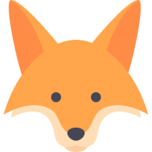
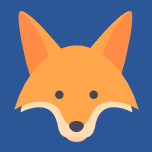
Updated to actual latest version that was on webhost

diff --git a/icons/html_code.html b/icons/html_code.html
@@ -1,4 +1,3 @@
-<link rel="stylesheet" href="/styles/style.css" /> <link rel="apple-touch-icon" sizes="180x180" href="/icons/apple-touch-icon.png?v=7koxj44oew" />
 <link rel="apple-touch-icon" sizes="180x180" href="/icons/apple-touch-icon.png?v=9BP4YaB3x3">
 <link rel="icon" type="image/png" sizes="32x32" href="/icons/favicon-32x32.png?v=9BP4YaB3x3">
 <link rel="icon" type="image/png" sizes="194x194" href="/icons/favicon-194x194.png?v=9BP4YaB3x3">

diff --git a/index.php b/index.php
@@ -82,7 +82,8 @@ body, html {
 <!-- First Parallax Image with Logo Text -->
 <div class="bgimg-1 w3-display-container w3-opacity-min" id="home">
   <div class="w3-display-middle" style="white-space:nowrap;">
-    <span class="w3-center w3-padding-large w3-black w3-xlarge w3-wide w3-animate-opacity">MY <span class="w3-hide-small">WEBSITE</span> LOGO</span>
+    <span class="w3-center w3-padding-large w3-xlarge w3-wide w3-animate-opacity"><img src='/icons/site-logo.png' width='120' height='120'></span><br>
+    <span class="w3-center w3-padding-large w3-black w3-xlarge w3-wide w3-animate-opacity">Julian Vos</span>
   </div>
 </div>
 
@@ -168,7 +169,7 @@ body, html {
     </div>
     <div class="w3-col m8 w3-panel">
       <div class="w3-large w3-margin-bottom">
-        <i class="fas fa-map-marker fa-fw w3-hover-text-black w3-xlarge w3-margin-right"></i> Birmingham, UK<br>
+        <i class="fas fa-map-marker fa-fw w3-hover-text-black w3-xlarge w3-margin-right"></i> Klazienaveen, Drenthe, NL<br>
         <i class="fas fa-phone fa-fw w3-hover-text-black w3-xlarge w3-margin-right"></i> Phone: +31 [six] 83221625<br>
         <i class="fas fa-envelope fa-fw w3-hover-text-black w3-xlarge w3-margin-right"></i> Email: post [at] julianvos.nl<br>
       </div>

diff --git a/icons/README.md b/icons/README.md
@@ -1,0 +1,28 @@
+# Your Favicon Package
+
+This package was generated with [RealFaviconGenerator](https://realfavicongenerator.net/) [v0.16](https://realfavicongenerator.net/change_log#v0.16)
+
+## Install instructions
+
+To install this package:
+
+Extract this package in <code>&lt;web site&gt;/icons/</code>. If your site is <code>http://www.example.com</code>, you should be able to access a file named <code>http://www.example.com/icons/favicon.ico</code>.
+
+Insert the following code in the `head` section of your pages:
+
+    <link rel="apple-touch-icon" sizes="180x180" href="/icons/apple-touch-icon.png?v=9BP4YaB3x3">
+    <link rel="icon" type="image/png" sizes="32x32" href="/icons/favicon-32x32.png?v=9BP4YaB3x3">
+    <link rel="icon" type="image/png" sizes="194x194" href="/icons/favicon-194x194.png?v=9BP4YaB3x3">
+    <link rel="icon" type="image/png" sizes="192x192" href="/icons/android-chrome-192x192.png?v=9BP4YaB3x3">
+    <link rel="icon" type="image/png" sizes="16x16" href="/icons/favicon-16x16.png?v=9BP4YaB3x3">
+    <link rel="manifest" href="/icons/site.webmanifest?v=9BP4YaB3x3">
+    <link rel="mask-icon" href="/icons/safari-pinned-tab.svg?v=9BP4YaB3x3" color="#e58c45">
+    <link rel="shortcut icon" href="/icons/favicon.ico?v=9BP4YaB3x3">
+    <meta name="apple-mobile-web-app-title" content="Julian Vos">
+    <meta name="application-name" content="Julian Vos">
+    <meta name="msapplication-TileColor" content="#2b5797">
+    <meta name="msapplication-TileImage" content="/icons/mstile-144x144.png?v=9BP4YaB3x3">
+    <meta name="msapplication-config" content="/icons/browserconfig.xml?v=9BP4YaB3x3">
+    <meta name="theme-color" content="#2b5797">
+
+*Optional* - Check your favicon with the [favicon checker](https://realfavicongenerator.net/favicon_checker)
